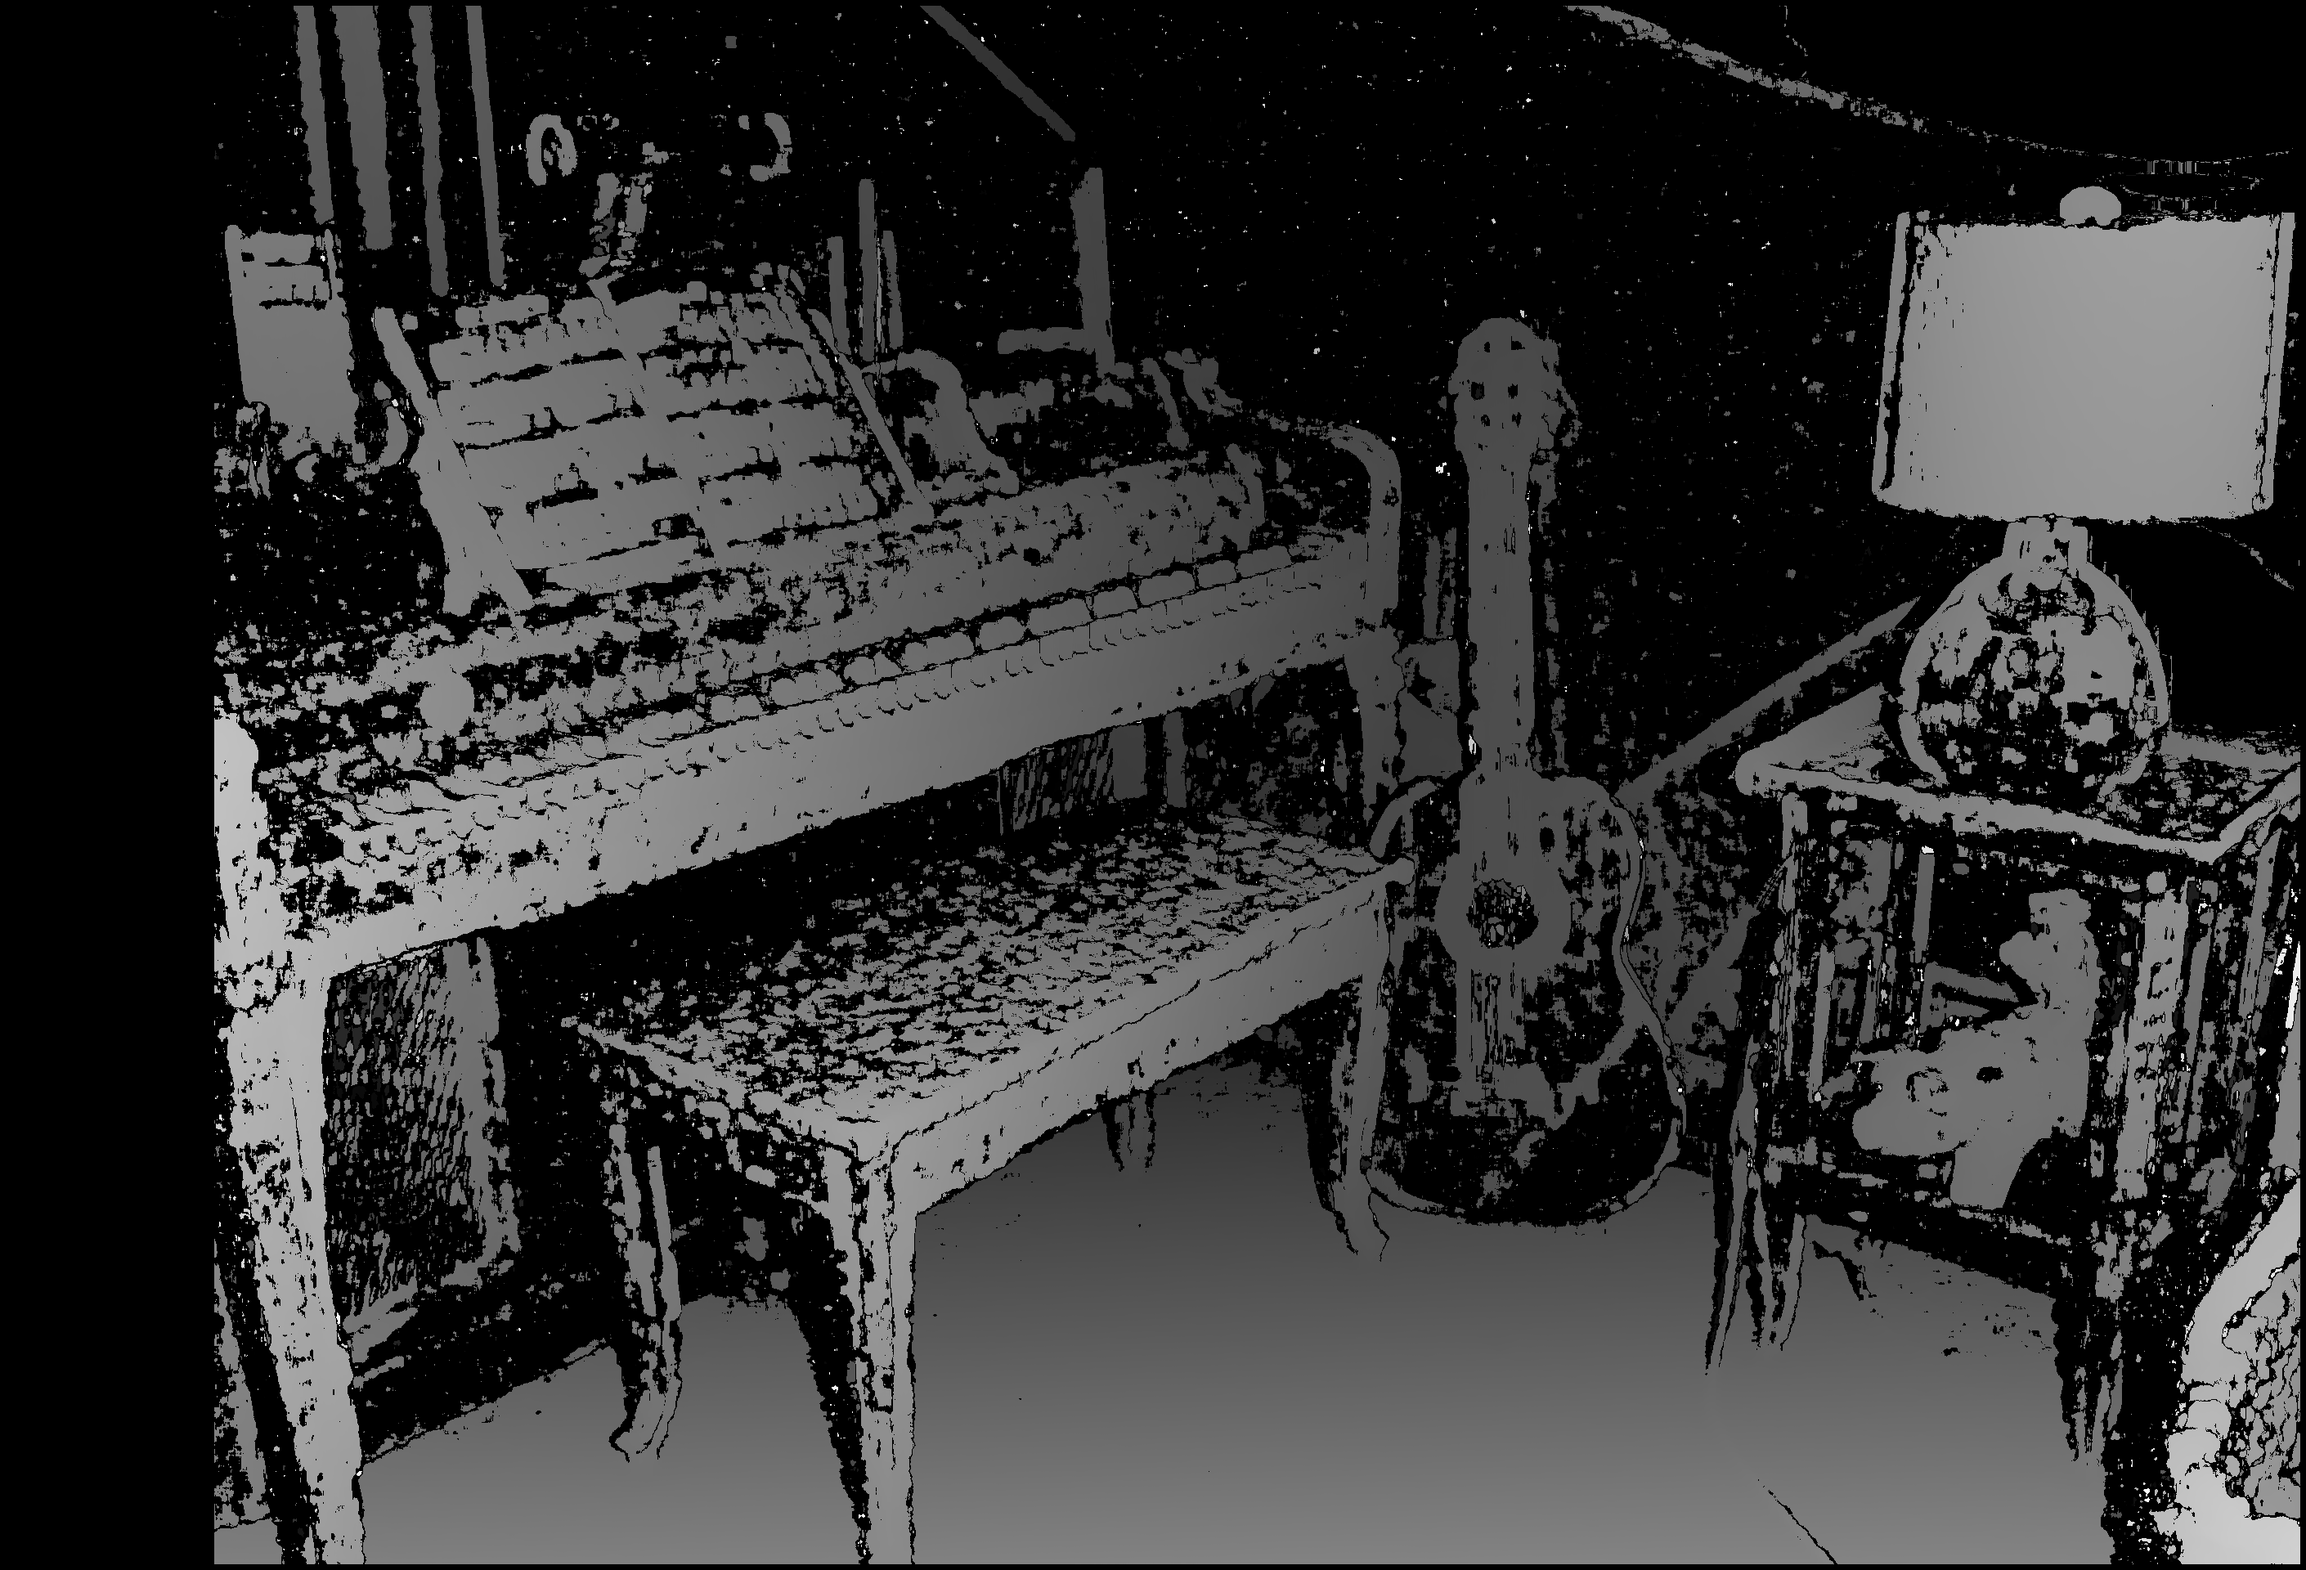
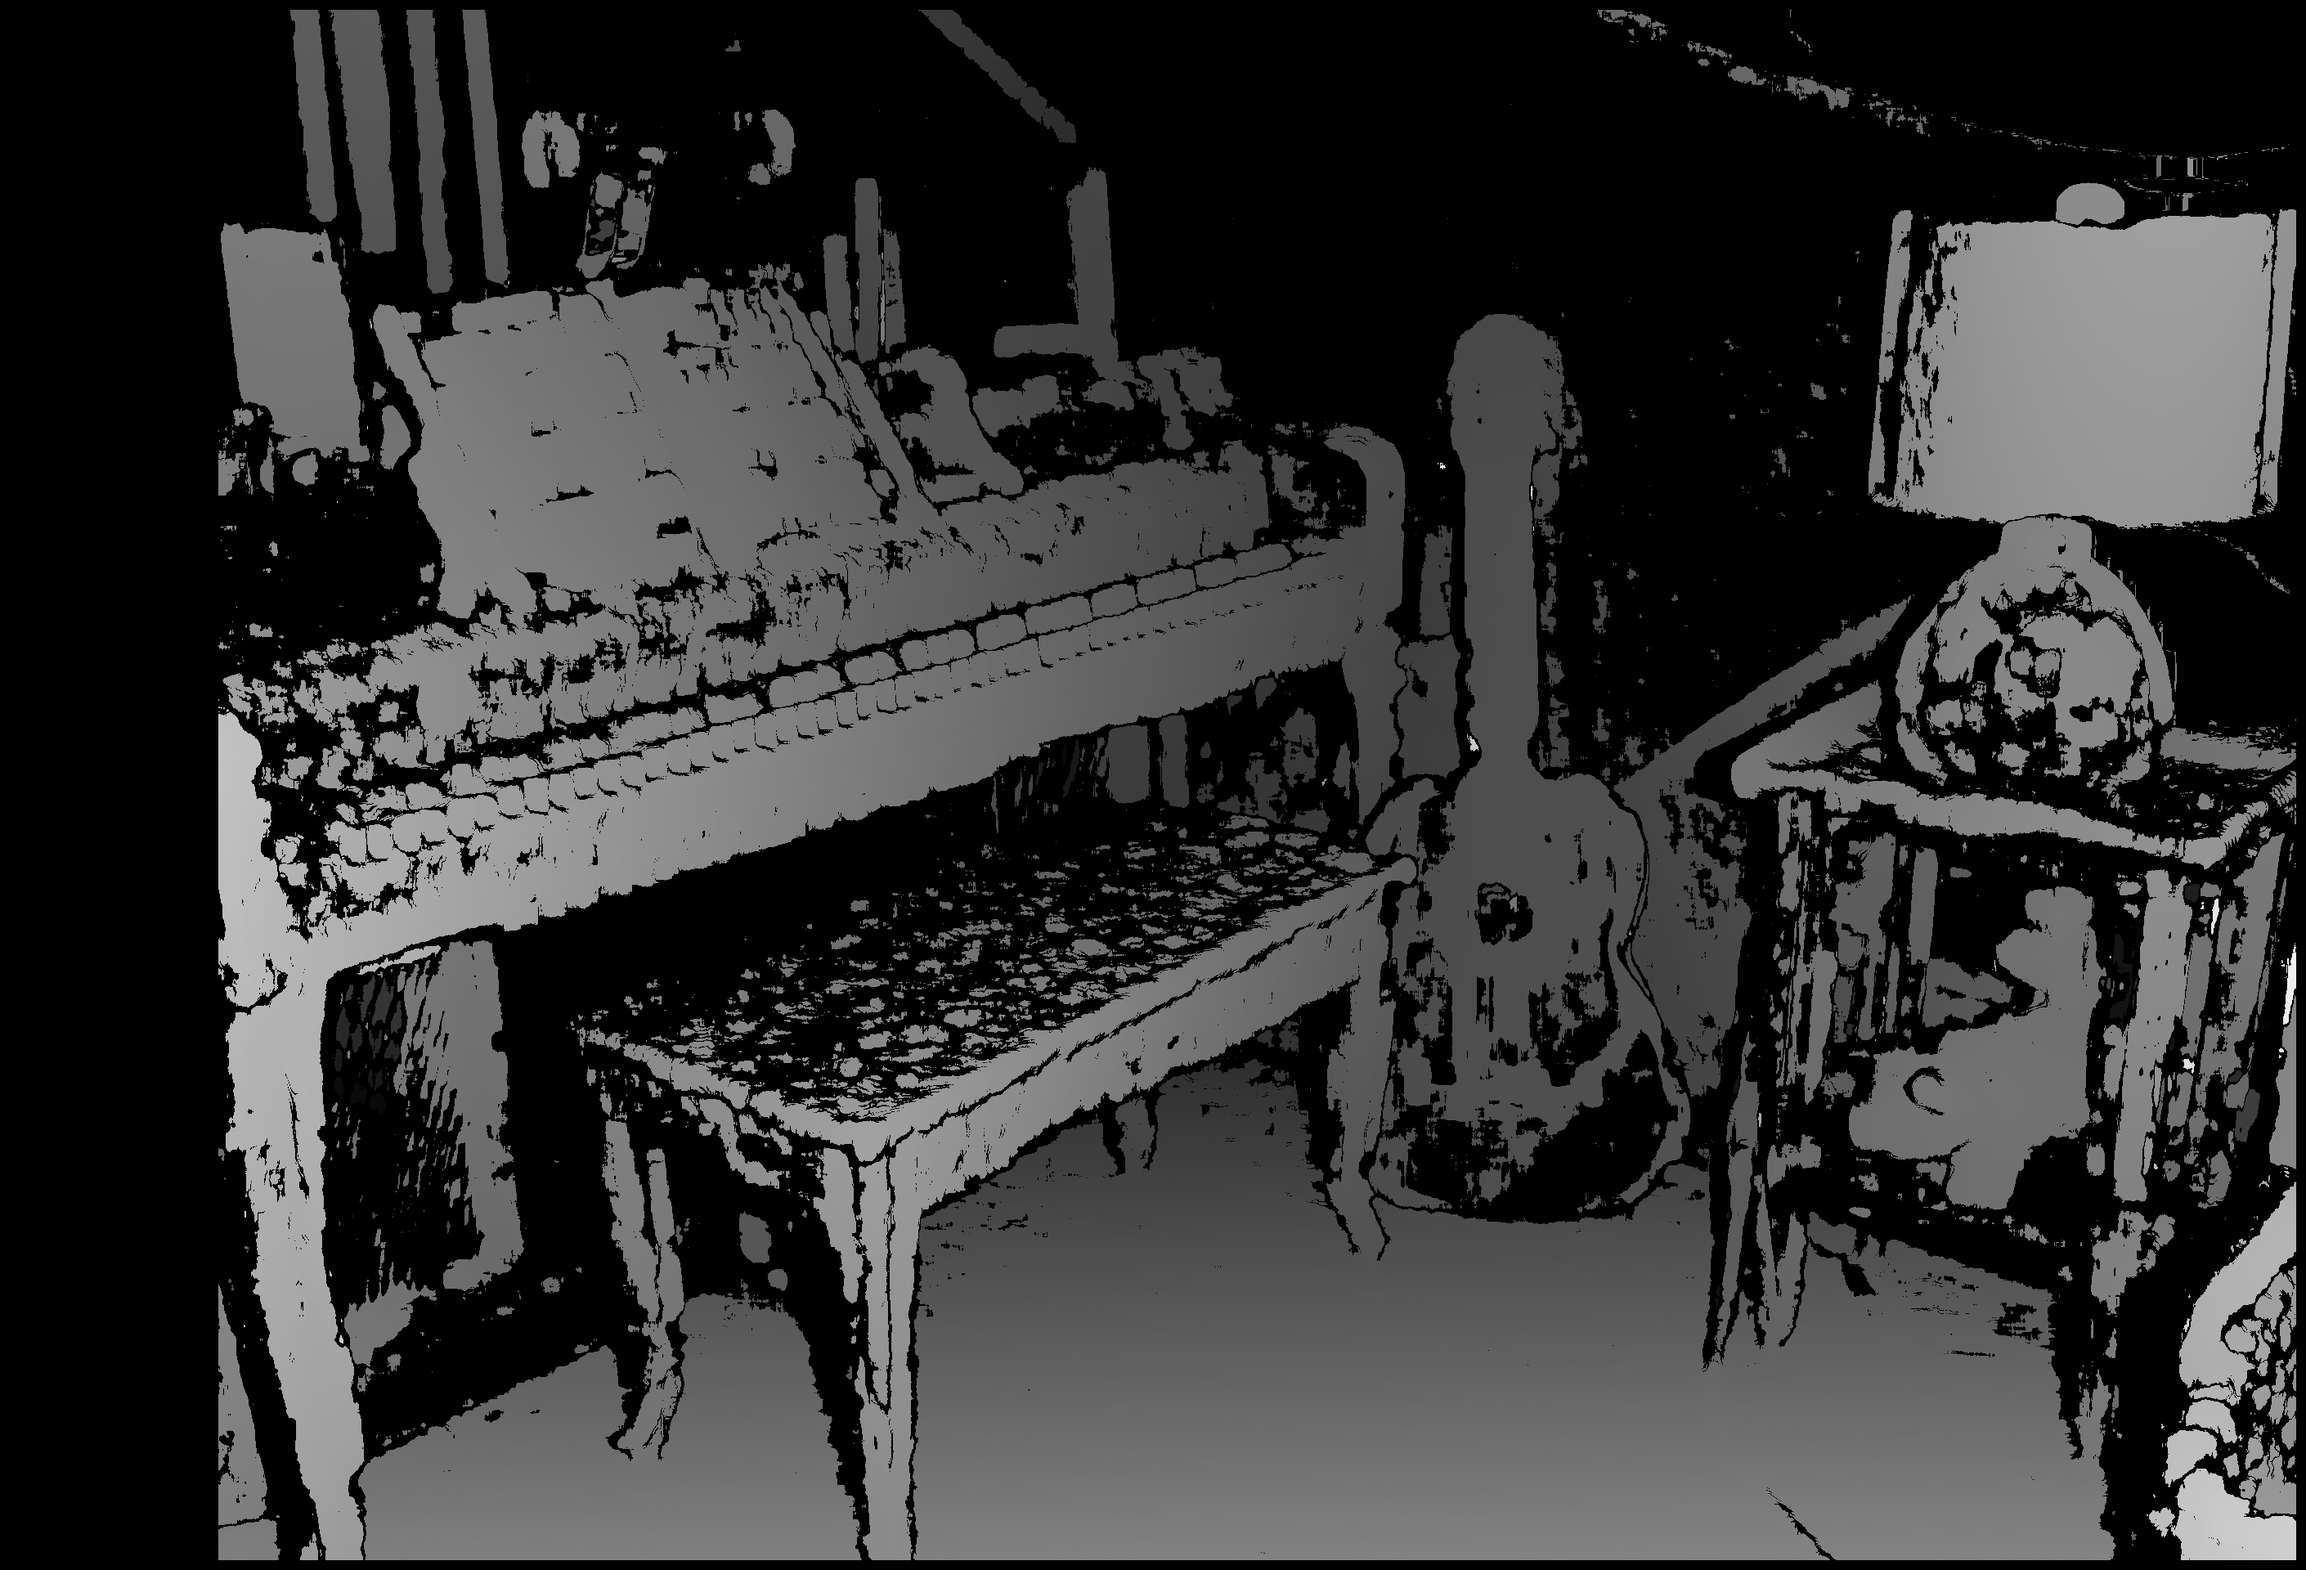
update

diff --git a/opencvdl2020/hw2/client/q5.ts b/opencvdl2020/hw2/client/q5.ts
@@ -6,6 +6,132 @@ import * as g2 from "@antv/g2"
 
 export const runQ5 = () => {
     {
+        let trainAccTxt = document.createElement("p")
+        trainAccTxt.innerText = `
+        train
+100%|██████████| 78/78 [01:21<00:00,  1.05s/it]
+100%|██████████| 78/78 [01:21<00:00,  1.05s/it]
+100%|██████████| 78/78 [01:22<00:00,  1.06s/it]
+100%|██████████| 78/78 [01:22<00:00,  1.06s/it]
+train loss : 0.5328055468000312
+train acc : 0.7650882601737976
+test
+100%|██████████| 78/78 [00:20<00:00,  3.79it/s]
+test loss : 0.553736661274115
+test acc : 0.748349666595459
+train
+100%|██████████| 78/78 [01:22<00:00,  1.06s/it]
+100%|██████████| 78/78 [01:24<00:00,  1.08s/it]
+100%|██████████| 78/78 [01:24<00:00,  1.08s/it]
+100%|██████████| 78/78 [01:24<00:00,  1.08s/it]
+train loss : 0.46651674558731415
+train acc : 0.8401920199394226
+test
+100%|██████████| 78/78 [00:21<00:00,  3.71it/s]
+test loss : 0.5236516400357918
+test acc : 0.778755784034729
+train
+100%|██████████| 78/78 [01:24<00:00,  1.08s/it]
+100%|██████████| 78/78 [01:24<00:00,  1.09s/it]
+100%|██████████| 78/78 [01:24<00:00,  1.08s/it]
+100%|██████████| 78/78 [01:24<00:00,  1.09s/it]
+train loss : 0.4255401241081322
+train acc : 0.8833441734313965
+test
+100%|██████████| 78/78 [00:21<00:00,  3.69it/s]
+test loss : 0.5233440323099181
+test acc : 0.7799559831619263
+train
+100%|██████████| 78/78 [01:24<00:00,  1.08s/it]
+100%|██████████| 78/78 [01:24<00:00,  1.09s/it]
+100%|██████████| 78/78 [01:24<00:00,  1.08s/it]
+100%|██████████| 78/78 [01:24<00:00,  1.08s/it]
+train loss : 0.40562253395726283
+train acc : 0.9048952460289001
+test
+100%|██████████| 78/78 [00:21<00:00,  3.64it/s]
+test loss : 0.541094995923318
+test acc : 0.7627525925636292
+train
+100%|██████████| 78/78 [01:24<00:00,  1.08s/it]
+100%|██████████| 78/78 [01:24<00:00,  1.08s/it]
+100%|██████████| 78/78 [01:24<00:00,  1.08s/it]
+100%|██████████| 78/78 [01:24<00:00,  1.08s/it]
+train loss : 0.39616140868969096
+train acc : 0.9151957631111145
+test
+100%|██████████| 78/78 [00:21<00:00,  3.70it/s]
+test loss : 0.5368264801479812
+test acc : 0.767953634262085
+train
+100%|██████████| 78/78 [01:24<00:00,  1.08s/it]
+100%|██████████| 78/78 [01:24<00:00,  1.08s/it]
+100%|██████████| 78/78 [01:24<00:00,  1.08s/it]
+100%|██████████| 78/78 [01:24<00:00,  1.09s/it]
+train loss : 0.38323715021147825
+train acc : 0.9276964068412781
+test
+100%|██████████| 78/78 [00:21<00:00,  3.70it/s]
+test loss : 0.5286156367924147
+test acc : 0.7763552665710449
+train
+100%|██████████| 78/78 [01:24<00:00,  1.08s/it]
+100%|██████████| 78/78 [01:24<00:00,  1.09s/it]
+100%|██████████| 78/78 [01:24<00:00,  1.08s/it]
+100%|██████████| 78/78 [01:24<00:00,  1.08s/it]
+train loss : 0.37524637834591484
+train acc : 0.9355468153953552
+test
+100%|██████████| 78/78 [00:21<00:00,  3.63it/s]
+test loss : 0.5259327371851591
+test acc : 0.7783557176589966
+train
+100%|██████████| 78/78 [01:24<00:00,  1.08s/it]
+100%|██████████| 78/78 [01:24<00:00,  1.08s/it]
+100%|██████████| 78/78 [01:24<00:00,  1.09s/it]
+100%|██████████| 78/78 [01:24<00:00,  1.08s/it]
+train loss : 0.36942348866362806
+train acc : 0.9420971274375916
+test
+100%|██████████| 78/78 [00:21<00:00,  3.70it/s]
+test loss : 0.5240995361879364
+test acc : 0.7809562087059021
+train
+100%|██████████| 78/78 [01:24<00:00,  1.08s/it]
+100%|██████████| 78/78 [01:24<00:00,  1.08s/it]
+100%|██████████| 78/78 [01:24<00:00,  1.09s/it]
+100%|██████████| 78/78 [01:24<00:00,  1.08s/it]
+train loss : 0.36091143581156576
+train acc : 0.9507975578308105
+test
+100%|██████████| 78/78 [00:21<00:00,  3.69it/s]
+test loss : 0.5119828601304616
+test acc : 0.7955591082572937
+train
+100%|██████████| 78/78 [01:24<00:00,  1.08s/it]
+100%|██████████| 78/78 [01:24<00:00,  1.08s/it]
+100%|██████████| 78/78 [01:24<00:00,  1.08s/it]
+100%|██████████| 78/78 [01:24<00:00,  1.08s/it]
+train loss : 0.3545462254870146
+train acc : 0.9570478796958923
+test
+100%|██████████| 78/78 [00:21<00:00,  3.70it/s]test loss : 0.5145867317825538
+test acc : 0.7929586172103882
+`
+        trainAccTxt.style.display = "none"
+        document.body.appendChild(trainAccTxt)
+        document.body.appendChild(document.createElement("br"))
+
+        let button = document.createElement("button")
+        button.innerText = "show train acc"
+        button.classList.add("lg")
+        document.body.appendChild(button)
+        document.body.appendChild(document.createElement("br"))
+        button.onclick = () => {
+            trainAccTxt.style.display = ""
+        }
+    }
+    {
         let img = document.createElement("img")
         img.src = recordSrc
         img.style.width = "100%"

diff --git a/opencvdl2020/hw2/client/q4.ts b/opencvdl2020/hw2/client/q4.ts
@@ -41,8 +41,8 @@ export const runQ4 = () => {
                 .then((response) => response.arrayBuffer())
                 .then((buf) => {
                     let rect = canvas.getBoundingClientRect()
-                    let i16buf = new Int16Array(buf)
-                    // console.log(i16buf)
+                    let u8buf = new Uint8Array(buf)
+                    // console.log(u8buf)
                     console.log(rect)
                     canvas.onmousedown = (e) => {
                         let obj = <HTMLElement>canvas
@@ -61,7 +61,7 @@ export const runQ4 = () => {
                         ypos -= obj_top
                         ypos *= w / 600
                         ypos = Math.round(ypos)
-                        let disparity = i16buf[ypos * w + xpos]
+                        let disparity = u8buf[ypos * w + xpos]
                         let depth = calcDepth(disparity)
                         let ctx = canvas.getContext("2d")
                         ctx.drawImage(img, 0, 0, w, h)

diff --git a/opencvdl2020/hw2/server/q4.py b/opencvdl2020/hw2/server/q4.py
@@ -4,7 +4,7 @@ import numpy as np
 
 imgL = cv2.imread('../Q4_Image/imgL.png', 0)
 imgR = cv2.imread('../Q4_Image/imgR.png', 0)
-stereo = cv2.StereoBM_create(numDisparities=256, blockSize=15)
+stereo = cv2.StereoBM_create(numDisparities=256, blockSize=25)
 disparity = stereo.compute(imgL, imgR)
 norm_disparity = np.array(disparity)
 norm_disparity = cv2.normalize(disparity, norm_disparity, alpha=0,

diff --git a/opencvdl2020/hw2/server/app.py b/opencvdl2020/hw2/server/app.py
@@ -76,7 +76,7 @@ def q4_img():
 
 @app.route('/q4-disparity')
 def q4_disparity():
-    return q4.disparity.tobytes()
+    return q4.norm_disparity.tobytes()
 
 
 @app.route("/q5-img", methods=['POST'])
